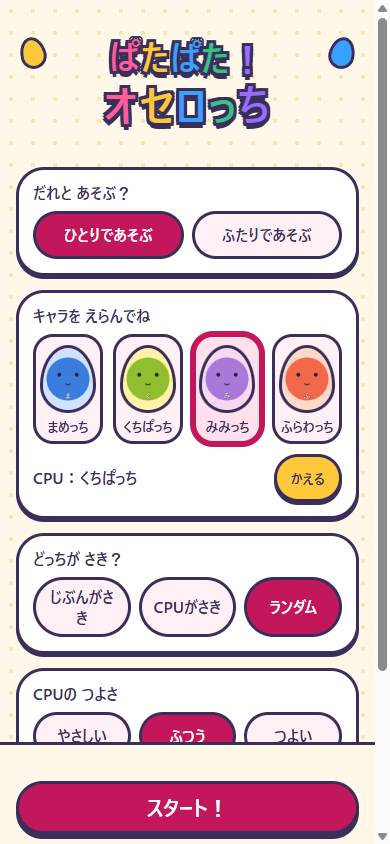
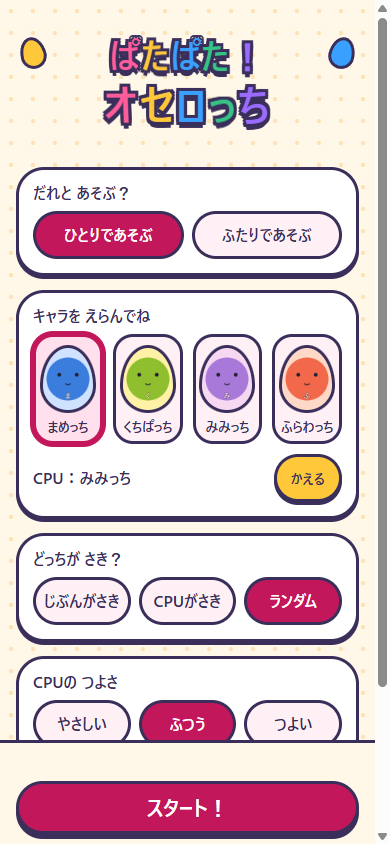
fix: トップ画面の同キャラ重複・テーマ値の直書き・下部バーを修正

diff --git a/css/top.css b/css/top.css
@@ -1,7 +1,9 @@
-#screen-top { display: flex; justify-content: center; }
+#screen-top { display: flex; flex-direction: column; padding-bottom: 0; }
 .top-wrap {
   width: 100%;
   max-width: var(--content-max);
+  margin: 0 auto;
+  flex: 1;
   padding: 12px 16px 0;
   display: flex;
   flex-direction: column;
@@ -19,8 +21,8 @@
     -3px -3px 0 var(--outline), 3px -3px 0 var(--outline), -3px 3px 0 var(--outline), 3px 3px 0 var(--outline),
     0 -3px 0 var(--outline), 0 3px 0 var(--outline), -3px 0 0 var(--outline), 3px 0 0 var(--outline),
     0 6px 0 var(--outline);
-  animation: logo-pop var(--t-pop) ease-out both, logo-bob 2.4s ease-in-out infinite;
-  animation-delay: calc(var(--i) * 60ms), calc(1s + var(--i) * 120ms);
+  animation: logo-pop var(--t-pop) ease-out both, logo-bob var(--logo-bob-dur) ease-in-out infinite;
+  animation-delay: calc(var(--i) * var(--logo-pop-stagger)), calc(var(--logo-bob-delay) + var(--i) * var(--logo-bob-stagger));
 }
 .logo-ch.c0 { color: var(--accent-pink); }
 .logo-ch.c1 { color: var(--accent-yellow); }
@@ -34,7 +36,7 @@
 }
 .logo-egg.left { left: 4px; transform: rotate(-14deg); background: var(--accent-yellow); }
 .logo-egg.right { right: 4px; transform: rotate(14deg); background: var(--accent-blue); }
-.logo img { max-width: 100%; max-height: 120px; }
+.logo img { max-width: 100%; max-height: var(--logo-max-h); }
 @keyframes logo-pop {
   0% { transform: scale(0) rotate(-20deg); opacity: 0; }
   70% { transform: scale(1.25) rotate(6deg); opacity: 1; }
@@ -125,8 +127,7 @@
 .actions {
   position: sticky;
   bottom: 0;
-  margin: 0 -16px;
-  padding: 10px 16px calc(10px + env(safe-area-inset-bottom));
+  padding: 10px max(16px, calc((100% - var(--content-max)) / 2 + 16px)) calc(10px + env(safe-area-inset-bottom));
   background: var(--bg);
   border-top: var(--border-w) solid var(--outline);
   display: flex;
@@ -134,7 +135,7 @@
   gap: 8px;
   z-index: 5;
 }
-.reason { margin: 0; min-height: 1.3em; text-align: center; font-weight: 800; color: var(--accent-pink-strong); font-size: 0.85rem; }
+.reason { margin: 0; min-height: 1.3em; text-align: center; font-weight: 800; color: var(--accent-pink-strong); font-size: 0.95rem; }
 .actions-row { display: flex; gap: 10px; }
 .actions-row .btn { flex: 1; }
 

diff --git a/js/ui/ui-manager.js b/js/ui/ui-manager.js
@@ -117,6 +117,7 @@
     if (state.mode === 'solo') { return state.p1 ? '' : 'キャラを えらんでね'; }
     if (!state.p1) { return '1Pの キャラを えらんでね'; }
     if (!state.p2) { return '2Pの キャラを えらんでね'; }
+    if (state.p1 === state.p2) { return 'おなじ キャラは えらべないよ'; }
     return '';
   }
 
@@ -229,7 +230,8 @@
 
     var modePanel = makePanel('だれと あそぶ？');
     makeChoices(modePanel, 'モード', [['solo', 'ひとりであそぶ'], ['duo', 'ふたりであそぶ']], 'mode', function () {
-      if (state.mode === 'solo' && state.p1 && !state.cpu) { rerollCpu(); }
+      if (state.mode === 'duo' && state.p2 === state.p1) { state.p2 = null; }
+      if (state.mode === 'solo' && state.p1 && (!state.cpu || state.cpu === state.p1)) { rerollCpu(); }
     });
     root.appendChild(modePanel);
 
@@ -280,7 +282,7 @@
     var subRow = el('div', 'sub-row');
     var how = el('button', 'btn btn-sub', 'あそびかた');
     how.type = 'button';
-    how.setAttribute('aria-label', 'あそびかたを見る');
+    how.setAttribute('aria-label', 'あそびかたを みる');
     how.addEventListener('click', showHowTo);
     els.sound = el('button', 'btn btn-sub');
     els.sound.type = 'button';
@@ -314,13 +316,13 @@
     row.appendChild(els.start);
     actions.appendChild(els.reason);
     actions.appendChild(row);
-    root.appendChild(actions);
+    wrap.appendChild(root);
+    wrap.appendChild(actions);
 
     var footer = el('footer', 'footer');
     footer.appendChild(el('div', null, 'バージョン ' + Otc.APP_VERSION));
     footer.appendChild(el('div', null, 'ひこうしきファンメイド（非公式・非営利）。けんりしゃとは かんけいありません'));
     root.appendChild(footer);
-    wrap.appendChild(root);
   }
 
   function readSettings() {

diff --git a/css/theme.css b/css/theme.css
@@ -41,6 +41,7 @@
   /* Shadow */
   --shadow-s: 0 3px 0 var(--outline);
   --shadow-m: 0 5px 0 var(--outline);
+  --overlay: rgba(58, 47, 90, 0.55);
   --shadow-soft: 0 8px 20px rgba(58, 47, 90, 0.18);
 
   /* Animation times */
@@ -48,6 +49,10 @@
   --t-ui: 180ms;
   --t-pop: 600ms;
   --t-flip: 400ms;
+  --logo-bob-dur: 2.4s;
+  --logo-bob-delay: 1s;
+  --logo-pop-stagger: 60ms;
+  --logo-bob-stagger: 120ms;
 
   /* Font */
   --font: "Hiragino Maru Gothic ProN", "M PLUS Rounded 1c", "Yu Gothic UI", system-ui, sans-serif;
@@ -55,4 +60,7 @@
   /* Sizes */
   --tap-min: 48px;
   --content-max: 560px;
+  --modal-max-w: 420px;
+  --modal-max-h: 90dvh;
+  --logo-max-h: 120px;
 }

diff --git a/css/base.css b/css/base.css
@@ -69,12 +69,12 @@ body {
   align-items: center;
   justify-content: center;
   padding: 16px;
-  background: rgba(58, 47, 90, 0.55);
+  background: var(--overlay);
 }
 .modal {
   width: 100%;
-  max-width: 420px;
-  max-height: 90dvh;
+  max-width: var(--modal-max-w);
+  max-height: var(--modal-max-h);
   overflow-y: auto;
   background: var(--surface);
   border: var(--border-w) solid var(--outline);
